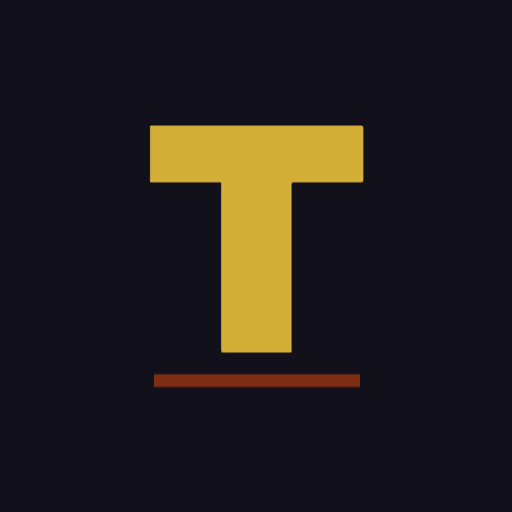
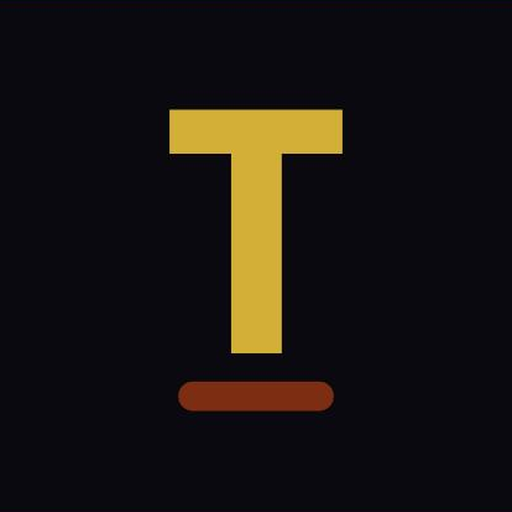
Novo icone do app: so o T, sem a marca inteira (spec do Claude Design)
Substitui os icones do PWA/loja/favicon pelo desenho novo: T sozinho,
dourado, com o risco terracota embaixo (peso 800, mesma fonte da marca).
Proporcoes exatas do documento "Abertura e Esperas - TumTu.dc.html"
(cap-height 46%, risco 30% largura x 5.7% altura, vao 8.2%, tudo
relativo ao lado do quadrado). Abaixo de 48px (favicon-32) o T vai
sozinho, sem risco, por nao sustentar a espessura.

Gerado renderizando o desenho real (CSS + fonte Plus Jakarta Sans) no
navegador e recortando com precisao, nao desenhado a mao -- garante
que bate exatamente com a mesma tipografia/cor usada em toda a marca.

Claude-Session: https://claude.ai/code/session_018xwWB16gLzMk6JeJhUPRGZ

Changed region(s): [[0.2812, 0.1875, 0.7188, 0.8125]]

diff --git a/sw.js b/sw.js
@@ -1,4 +1,4 @@
-const CACHE_NAME = 'tumtu-shell-v664';
+const CACHE_NAME = 'tumtu-shell-v665';
 
 // Arquivos com "?v=N" têm o número subido a cada mudança de conteúdo —
 // isso muda a URL inteira, então nem o cache do navegador nem caches de
